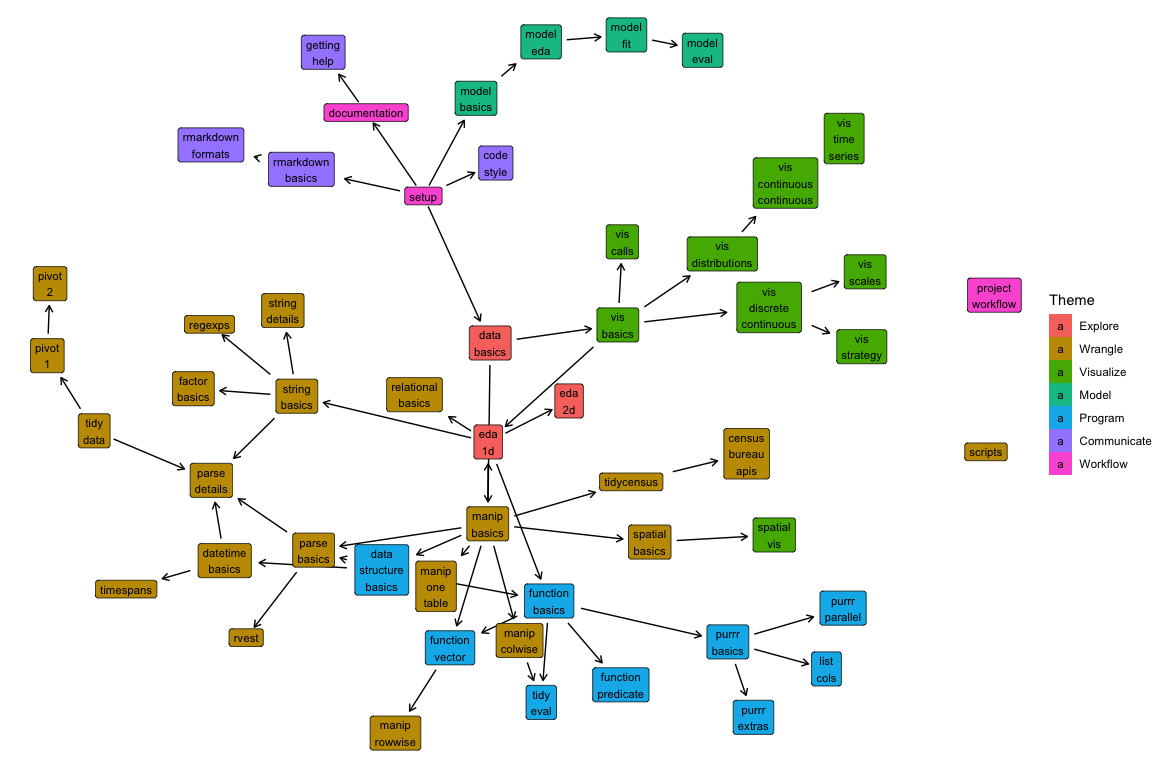
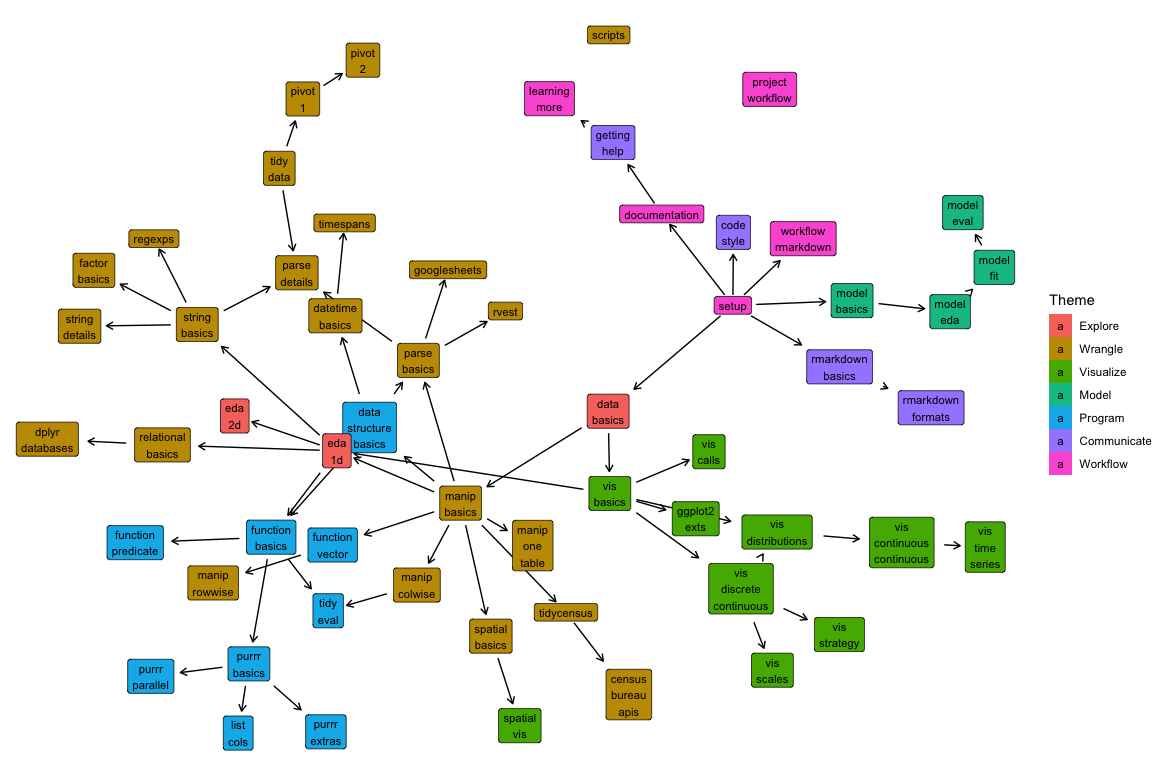
Initial commit

diff --git a/docs/index.md b/docs/index.md
@@ -366,4 +366,34 @@ title: Theme index
   <td colspan="3"></td>
 </tr>
 </tbody>
+<tbody>
+<tr>
+<td id='week-10'>10</td>
+  <td colspan="6"></td>
+  <td colspan="6"><a class="workflow" href="workflow-rmarkdown.html">R Markdown workflow</a></td>
+</tr>
+<tr>
+<td></td>
+  <td colspan="2"></td>
+  <td colspan="6"><a class="visualize" href="ggplot2-exts.html">ggplot2 extensions</a></td>
+  <td colspan="4"></td>
+</tr>
+<tr>
+<td></td>
+  <td colspan="1"></td>
+  <td colspan="6"><a class="wrangle" href="googlesheets.html">Google Sheets</a></td>
+  <td colspan="5"></td>
+</tr>
+<tr>
+<td></td>
+  <td colspan="1"></td>
+  <td colspan="6"><a class="wrangle" href="dplyr-databases.html">dplyr and databases</a></td>
+  <td colspan="5"></td>
+</tr>
+<tr>
+<td></td>
+  <td colspan="6"></td>
+  <td colspan="6"><a class="workflow" href="learning-more.html">Learning more</a></td>
+</tr>
+</tbody>
 </table>

diff --git a/docs/vis-basics.md b/docs/vis-basics.md
@@ -6,7 +6,7 @@ title: Visualization basics
 
 # Visualization basics <small class='visualize'>[visualize]</small>
 <small>(Builds on: [Data basics](data-basics.md))</small>  
-<small>(Leads to: [Exploratory data analysis (1D)](eda-1d.md), [ggplot2 calls](vis-calls.md), [Discrete-continuous relationships](vis-discrete-continuous.md), [Distributions](vis-distributions.md))</small>
+<small>(Leads to: [Exploratory data analysis (1D)](eda-1d.md), [ggplot2 extensions](ggplot2-exts.md), [ggplot2 calls](vis-calls.md), [Discrete-continuous relationships](vis-discrete-continuous.md), [Distributions](vis-distributions.md))</small>
 
 Data visualization is one of the most important tools of data science.
 It's also a great place to start learning a programming language because

diff --git a/docs/setup.md b/docs/setup.md
@@ -5,7 +5,7 @@ title: Setup
 <!-- Generated automatically from setup.yml. Do not edit by hand -->
 
 # Setup <small class='workflow'>[workflow]</small>
-<small>(Leads to: [Code style](code-style.md), [Data basics](data-basics.md), [Documentation](documentation.md), [Model basics](model-basics.md), [R Markdown basics](rmarkdown-basics.md))</small>
+<small>(Leads to: [Code style](code-style.md), [Data basics](data-basics.md), [Documentation](documentation.md), [Model basics](model-basics.md), [R Markdown basics](rmarkdown-basics.md), [R Markdown workflow](workflow-rmarkdown.md))</small>
 
 Ensure that you have all the tools you need for this class. You should
 have done this before the first day.

diff --git a/docs/ggplot2-exts.md b/docs/ggplot2-exts.md
@@ -1,0 +1,20 @@
+---
+title: ggplot2 extensions
+---
+
+<!-- Generated automatically from ggplot2-exts.yml. Do not edit by hand -->
+
+# ggplot2 extensions <small class='visualize'>[visualize]</small>
+<small>(Builds on: [Visualization basics](vis-basics.md))</small>
+
+ggplot2 is not an island; it also has a rich ecosystem of extensions that
+solve a wide range of problems that base ggplot2 does not. In this reading
+you'll learn about the most important site for finding ggplot2 extensions.
+
+## Readings
+
+  * [ggplot2 extensions](https://exts.ggplot2.tidyverse.org).
+    This is the best place to start if you discover a plot type that doesn't
+    seem easy to do with just ggplot2.
+
+

diff --git a/docs/dplyr-databases.md b/docs/dplyr-databases.md
@@ -1,0 +1,19 @@
+---
+title: dplyr and databases
+---
+
+<!-- Generated automatically from dplyr-databases.yml. Do not edit by hand -->
+
+# dplyr and databases <small class='wrangle'>[wrangle]</small>
+<small>(Builds on: [Essentials of relational data](relational-basics.md))</small>
+
+So far you've used dplyr with in-memory dataframes. But one of the coolest
+things about dplyr is that it provides an abstract interface: in other words,
+you can use the same code to work with data stored in different places. In
+this unit, you'll learn how to use dplyr with data that lives in a database.
+
+## Readings
+
+  * [Introduction to dbplyr](http://dbplyr.tidyverse.org/articles/dbplyr.html)
+
+

diff --git a/docs/googlesheets.md b/docs/googlesheets.md
@@ -1,0 +1,20 @@
+---
+title: Google Sheets
+---
+
+<!-- Generated automatically from googlesheets.yml. Do not edit by hand -->
+
+# Google Sheets <small class='wrangle'>[wrangle]</small>
+<small>(Builds on: [Parsing basics](parse-basics.md))</small>
+
+Google Sheets are a useful place to store and edit data, especially if you're 
+collaborating with others. The googlesheets4 package allows you to easily read 
+from and write to Google Sheets from R. In this reading, you'll learn how to
+use the googlesheets4 pacakge to extract data from any Google Sheet you have
+access to.
+
+## Readings
+
+  * [Google Sheets](https://dcl-wrangle.stanford.edu/googlesheets.html) [wrangle-10]
+
+

diff --git a/docs/workflow-rmarkdown.md b/docs/workflow-rmarkdown.md
@@ -1,0 +1,23 @@
+---
+title: R Markdown workflow
+---
+
+<!-- Generated automatically from workflow-rmarkdown.yml. Do not edit by hand -->
+
+# R Markdown workflow <small class='workflow'>[workflow]</small>
+<small>(Builds on: [Setup](setup.md))</small>
+
+As you start to write more code, it's a good idea to be a little thoughtful
+about your use of R Markdown.
+
+As well as the reading, make sure you know what each of the following
+keyboard shortcuts do:
+
+* Cmd/Ctrl + Enter
+* Cmd/Ctrl + Shift + Enter
+
+## Readings
+
+  * [R Markdown workflow](http://r4ds.had.co.nz/r-markdown-workflow.html) [r4ds-30]
+
+

diff --git a/docs/parse-basics.md b/docs/parse-basics.md
@@ -6,7 +6,7 @@ title: Parsing basics
 
 # Parsing basics <small class='wrangle'>[wrangle]</small>
 <small>(Builds on: [Data structure basics](data-structure-basics.md), [Manipulation basics](manip-basics.md))</small>  
-<small>(Leads to: [Parsing details](parse-details.md), [rvest](rvest.md))</small>
+<small>(Leads to: [Google Sheets](googlesheets.md), [Parsing details](parse-details.md), [rvest](rvest.md))</small>
 
 Most of the data you'll want to use won't be nicely bundled into a package. You'll
 need to read it into R, parsing the file to create a tibble. The readr package

diff --git a/docs/relational-basics.md b/docs/relational-basics.md
@@ -5,7 +5,8 @@ title: Essentials of relational data
 <!-- Generated automatically from relational-basics.yml. Do not edit by hand -->
 
 # Essentials of relational data <small class='wrangle'>[wrangle]</small>
-<small>(Builds on: [Exploratory data analysis (1D)](eda-1d.md))</small>
+<small>(Builds on: [Exploratory data analysis (1D)](eda-1d.md))</small>  
+<small>(Leads to: [dplyr and databases](dplyr-databases.md))</small>
 
 It is extremely rare to only require a single table of data for an analysis.
 Far more often you will need to combine together multiple sources of

diff --git a/docs/learning-more.md b/docs/learning-more.md
@@ -1,0 +1,18 @@
+---
+title: Learning more
+---
+
+<!-- Generated automatically from learning-more.yml. Do not edit by hand -->
+
+# Learning more <small class='workflow'>[workflow]</small>
+<small>(Builds on: [Getting help](getting-help.md))</small>
+
+The process of learning, whether R or anything else, should never be over! Here,
+we'll list some ways to help you continue learning R and data science and stay
+up-to-date with new developments. 
+
+## Readings
+
+  * [Learning more](https://dcl-workflow.stanford.edu/learning-more.html) [workflow-2]
+
+

diff --git a/docs/getting-help.md b/docs/getting-help.md
@@ -5,7 +5,8 @@ title: Getting help
 <!-- Generated automatically from getting-help.yml. Do not edit by hand -->
 
 # Getting help <small class='communicate'>[communicate]</small>
-<small>(Builds on: [Documentation](documentation.md))</small>
+<small>(Builds on: [Documentation](documentation.md))</small>  
+<small>(Leads to: [Learning more](learning-more.md))</small>
 
 It's important to understand how (and when) to ask for help. In this reading,
 you'll learn where to go to ask your R questions and how to ask those
